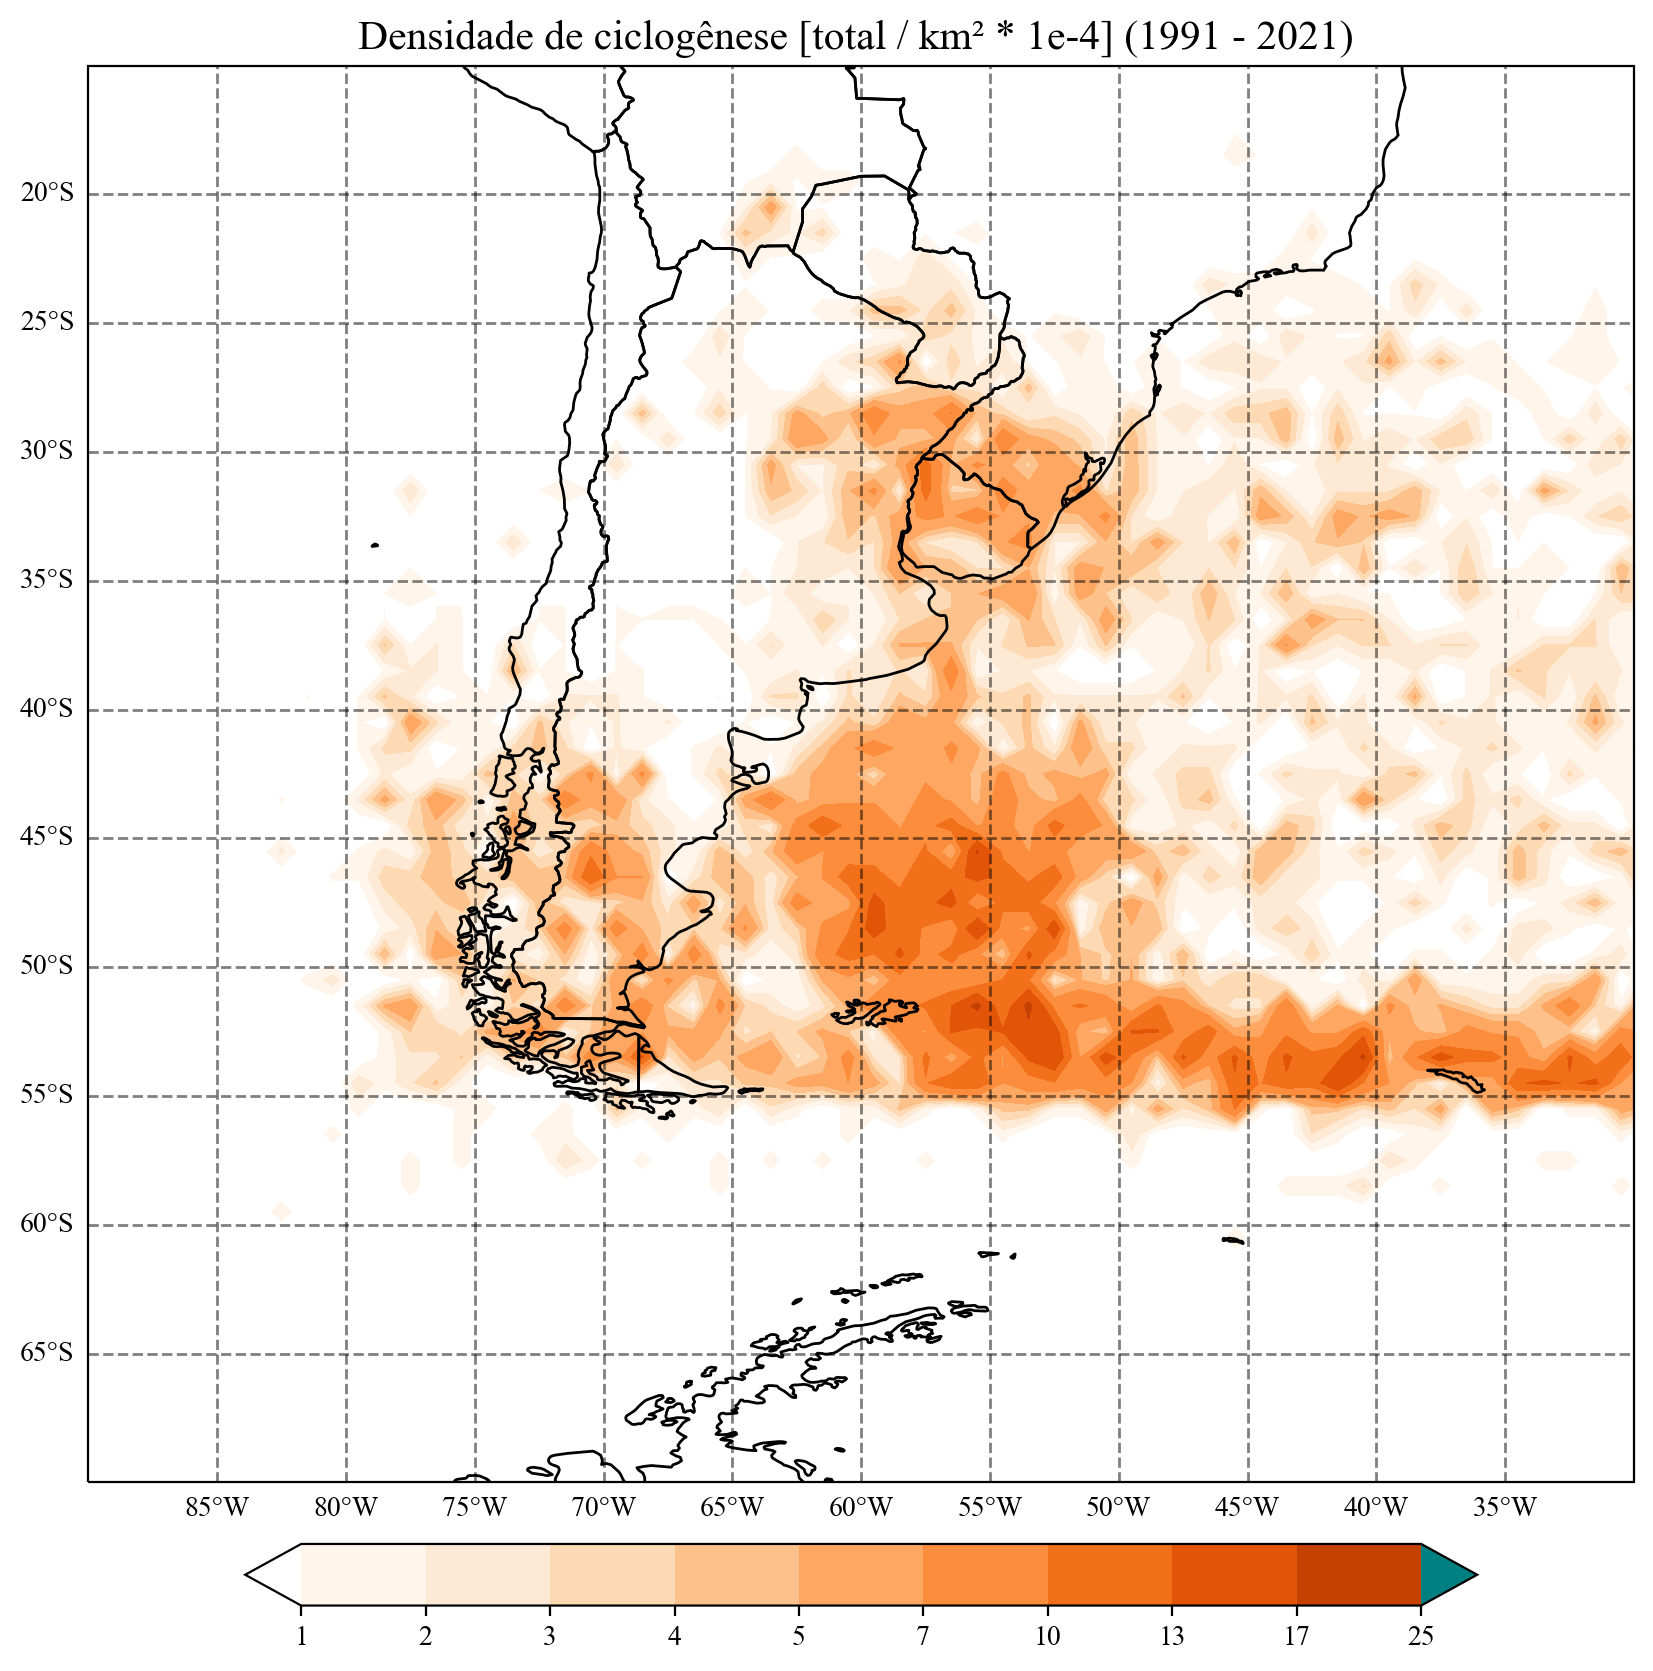
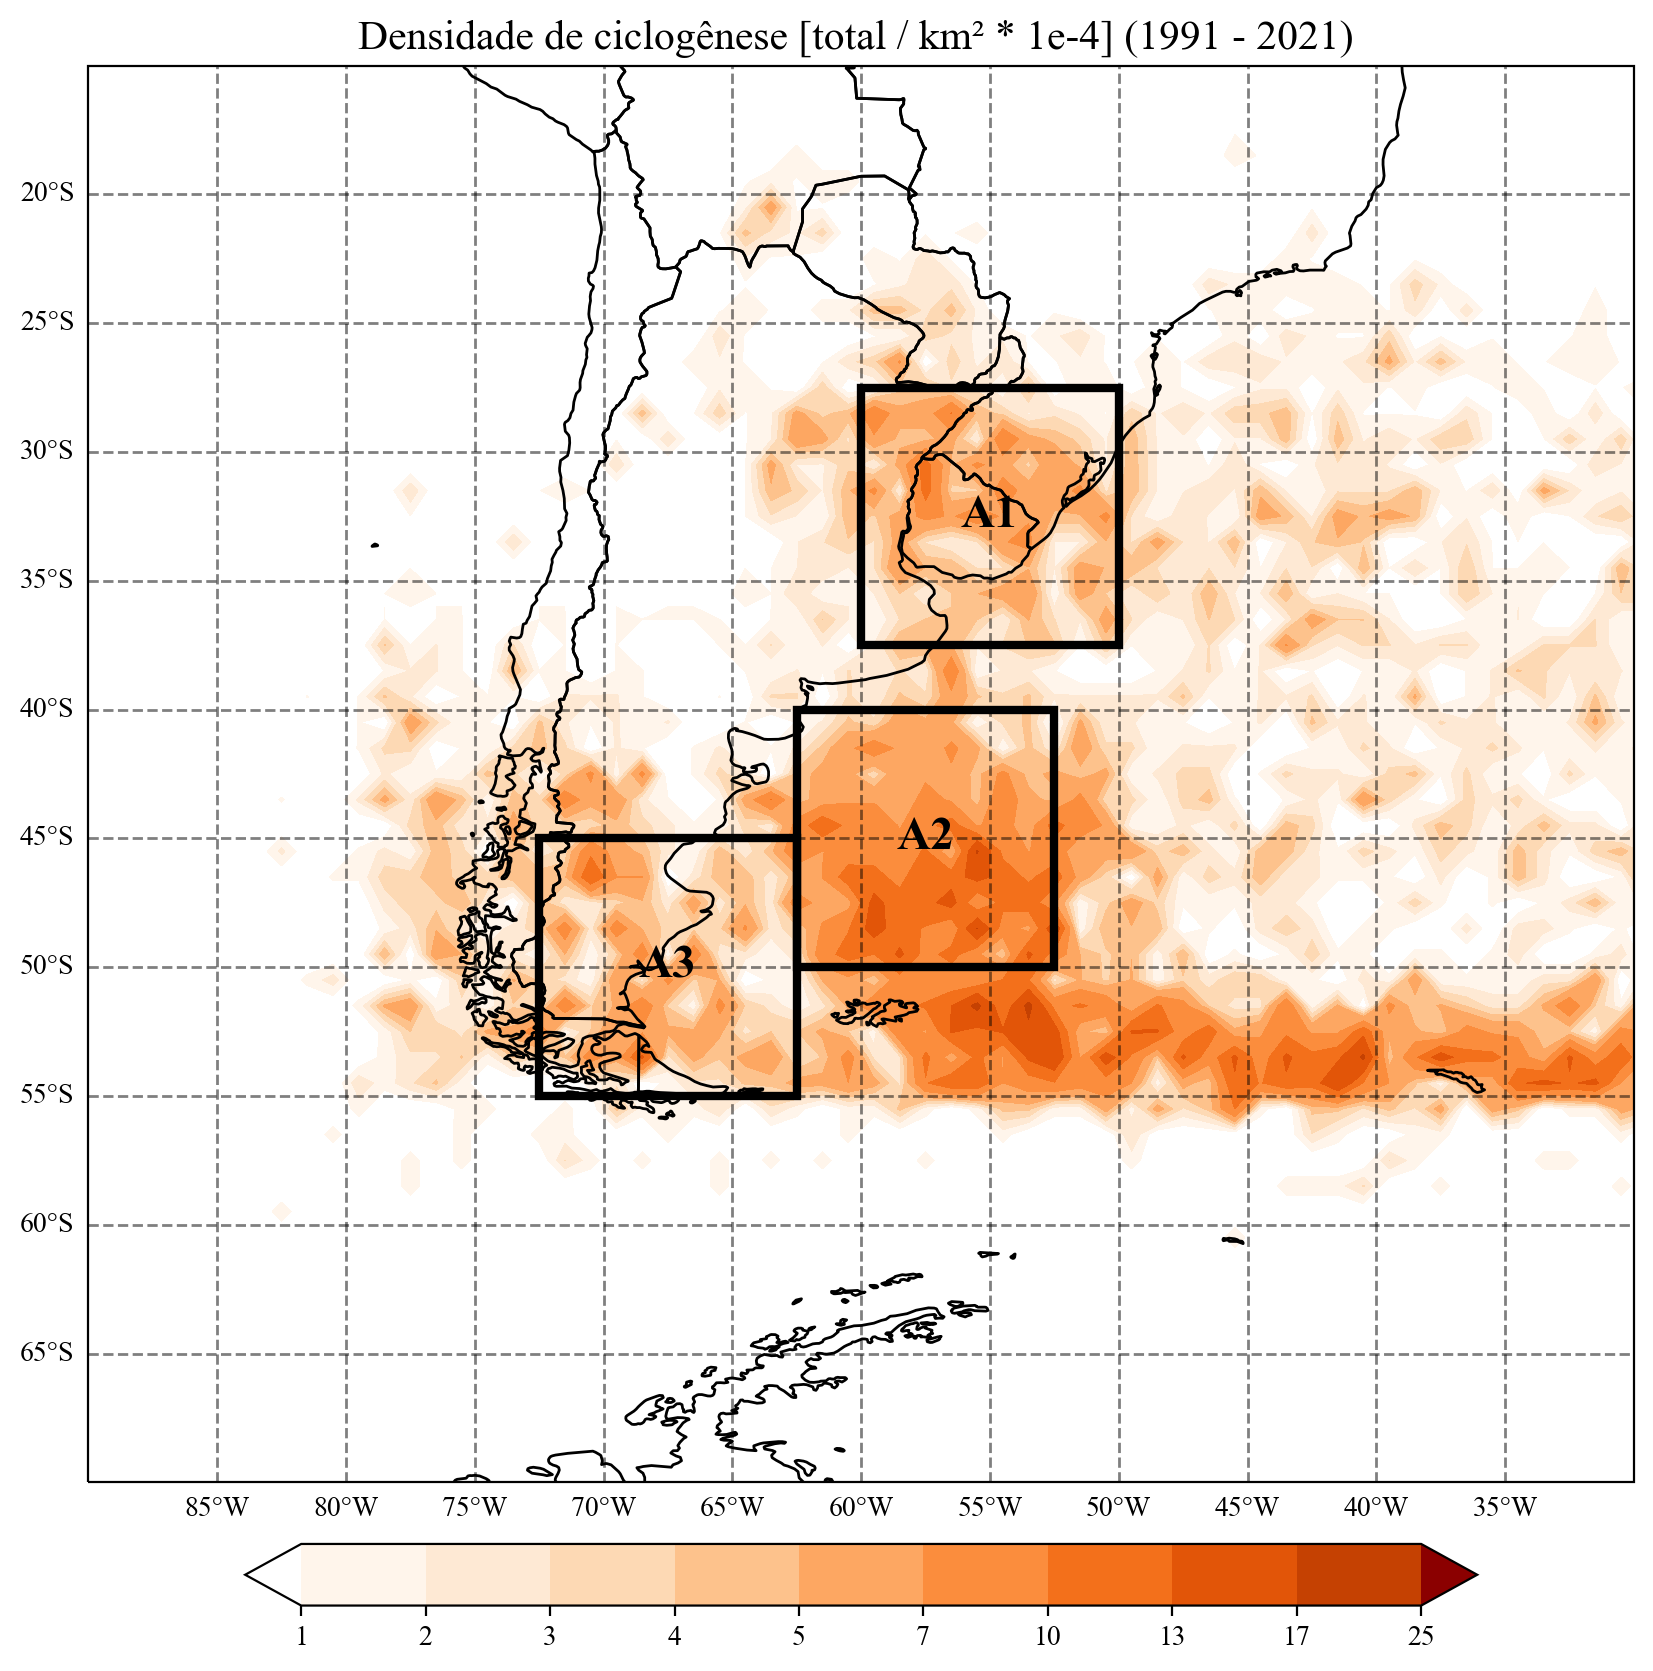
Teste de tendencia fluxos e serie temporal

diff --git a/Scripts/mapas_era5.py b/Scripts/mapas_era5.py
@@ -1,0 +1,82 @@
+"""
+Este arquivo trata-se de um dos scripts criados para a confecção do seminário de Física do Clima.
+
+Gera as figuras utilizadas nos resultados do seminário.
+
+Criado por: Lucas Menezes
+"""
+
+# IMPORT BUILT-IN MODULES
+import os
+
+# IMPORT MODULES
+import pandas as pd
+import numpy as np
+import xarray as xr
+import pymannkendall as mk
+
+# IMPORT PLOT RELATED MODULES
+import matplotlib.pyplot as plt
+import matplotlib.ticker as mticker
+import matplotlib.colors as mcolors
+import matplotlib.cm as mcm
+import matplotlib.patches as patches
+
+# IMPORT MAP RELATED MODULES
+import cartopy.crs as ccrs
+import cartopy.feature as cf
+from cartopy.mpl.gridliner import LONGITUDE_FORMATTER, LATITUDE_FORMATTER
+
+
+def tendencia_fluxos(data_folder):
+	'''
+	CALCULA A TENDENCIA DOS FLUXOS EM CADA PONTO DE GRADE, UTILIZANDO COMO INPUT
+	OS DADOS MENSAIS DE CADA ANO.
+	Cada calculo leva cerca de 10 a 15 minutos, portanto o calculo da tendencia de todas
+	as variaveis deve levar cerca de 1 hora ou mais.
+	'''
+	# arquivo e vriaveis
+	filename = 'SAO-91to21_f-clima.nc'
+	vars_ = ['mslhf', 'msshf']
+
+	# lendo arquivo e filtrando por data
+	ds = xr.open_dataset(os.path.join(data_folder, filename))
+	ds = ds.sel(dict(expver = 1, time = slice('1991-01-01', '2021-12-01')))
+
+	# dicionario com o dataarrays a serem salvos
+	new_ds = {}
+
+	# loop para cada variavel
+	for var in vars_:
+
+		da = ds[var]
+
+		# agrupando e calculando anomalia
+		gp = da.groupby(da.time.dt.month)
+		clim = gp.mean(dim = 'time')
+		anomalia = gp - clim
+
+		# agrupando e calculando anomalia padronizada
+		gp_anom = anomalia.groupby(anomalia.time.dt.month)
+		anom_padronizada = gp_anom / clim
+
+		# tendencias para a anomalia padronizada
+		trend_anom = xr.apply_ufunc(lambda x: mk.yue_wang_modification_test(x).slope, anom_padronizada, input_core_dims = [['time']], vectorize = True)
+		teste_anom = xr.apply_ufunc(lambda x: mk.yue_wang_modification_test(x).h, anom_padronizada, input_core_dims = [['time']], vectorize = True)
+
+		# tendencias para a variavel pura
+		trend = xr.apply_ufunc(lambda x: mk.yue_wang_modification_test(x).slope, da, input_core_dims = [['time']], vectorize = True)
+		teste = xr.apply_ufunc(lambda x: mk.yue_wang_modification_test(x).h, da, input_core_dims = [['time']], vectorize = True)
+
+		# adiciona no dicionario
+		# 'trend' é o próprio valor da tendência
+		# 'teste' é o resultado do teste de significancia a um nivel de alpha = 0.05 (True se tem tendencia, False caso contrario)
+		new_ds[f'trend {var} anom'] = trend_anom
+		new_ds[f'test {var} anom'] = teste_anom
+		new_ds[f'trend {var}'] = trend
+		new_ds[f'test {var}'] = teste
+
+	# Salva em um netcdf
+	filename = 'tendencias_fluxos_1991_2021.nc'
+	new_ds = xr.Dataset(new_ds)
+	new_ds.to_netcdf(os.path.join(data_folder, filename))

diff --git a/Scripts/serie_temporal.py b/Scripts/serie_temporal.py
@@ -1,0 +1,82 @@
+"""
+Este arquivo trata-se de um dos scripts criados para a confecção do seminário de Física do Clima.
+
+Gera figuras para auxiliar na tomada de decioes, baseando-se em estatistica.
+
+Criado por: Lucas Menezes
+"""
+
+# IMPORT BUILT-IN MODULES
+import os
+
+# IMPORT MODULES
+import pandas as pd
+import numpy as np
+import xarray as xr
+
+# MODULES PARA PLOT
+import matplotlib.pyplot as plt
+import matplotlib.colors as mcolors
+import matplotlib.cm as mcm
+
+def ciclogenese_temporal(data_dir, save_folder):
+
+	# lendo o arquivo
+	df = pd.read_csv(os.path.join(data_dir, 'frequencia_ciclogenese_mensal_AREAS.csv'))
+
+	# agrupando e aplicando operacoes
+	media_mensal = df.groupby(['month']).agg(
+		A1 = ('A1', 'mean'),
+		A2 = ('A2', 'mean'),
+		A3 = ('A3', 'mean')
+	)
+
+	total_anual = df.groupby(['ano']).agg(
+		A1 = ('A1', 'sum'),
+		A2 = ('A2', 'sum'),
+		A3 = ('A3', 'sum')
+	)
+
+	# figuras
+	fig, axes = plt.subplots(nrows = 2, figsize = (15, 10)) # 1 plot mensal e outro anual
+
+	# propriedades
+	meses = ['Jan', 'Fev', 'Mar', 'Abr', 'Maio', 'Jun', 'Jul', 'Ago', 'Set', 'Out', 'Nov', 'Dec']
+	cmap = mcm.get_cmap('CMRmap') # pega cores a partir de um colormap
+	areas = ['A1', 'A2', 'A3']
+	cores = cmap(np.linspace(0, 1, len(areas) + 2))
+
+	# Plotando para cada area
+	for i in range(len(areas)):
+		# plot mensal
+		p = axes[0].plot(media_mensal.index, media_mensal[areas[i]], color = cores[i + 1], marker = 'o', markerfacecolor= 'none', label = areas[i], linewidth = 2)
+
+		# plot anual
+		axes[1].plot(total_anual.index, total_anual[areas[i]], color = cores[i + 1], marker = 'o', markerfacecolor= 'none', label = areas[i], linewidth = 2)
+
+	# eixo horizontal
+	axes[0].set_xticks(media_mensal.index)
+	axes[0].set_xticklabels(meses, fontsize = 15)
+	axes[0].grid(True, axis = 'y')
+
+	axes[1].set_xticks(np.arange(1991, 2022, 5).astype(int))
+	axes[1].set_xticklabels(np.arange(1991, 2022, 5).astype(int), fontsize = 15)
+	axes[1].grid(True, axis = 'both')
+
+	# titulos
+	axes[0].set_title('(a) Médias anuais', fontsize = 15, loc = 'left')
+	axes[1].set_title('(b) Totais anuais', fontsize = 15, loc = 'left')
+
+	# ajustando a figura
+	fig.subplots_adjust(0.1, 0.1, 0.9, 0.9, 0.1, 0.2)
+	fig.text(0.05, 0.5, 'Frequência de ciclogênese por ano', fontsize = 20, va = 'center', rotation = 'vertical')
+
+	# Legenda
+	bbox = [0.5, 0.92]
+	handles, labels = axes[0].get_legend_handles_labels()
+	lg = fig.legend(handles, labels, ncols = 3, bbox_to_anchor = bbox, loc = 'center', frameon = False, fontsize = 20)
+
+	# mostra a figura
+	filename ='serie_temporal_ciclogenese.png'
+	fig.savefig(os.path.join(save_folder, filename), bbox_inches = 'tight')
+	plt.close()

diff --git a/Scripts/graficos_espaciais.py b/Scripts/graficos_espaciais.py
@@ -17,6 +17,7 @@ import matplotlib.pyplot as plt
 import matplotlib.ticker as mticker
 import matplotlib.colors as mcolors
 import matplotlib.cm as mcm
+import matplotlib.patches as patches
 
 # IMPORT MAP RELATED MODULES
 import cartopy.crs as ccrs
@@ -54,7 +55,7 @@ def visualizar_mapas(data_folder, save_folder):
 	'Custom cmap', colors, q_levs.shape[0] - 1)
 	#
 	cmap.set_under('white')
-	cmap.set_over('teal')
+	cmap.set_over('darkred')
 	cmap.set_bad('white')
 
 	# nromaliza com base nos intervalos
@@ -121,6 +122,19 @@ def visualizar_mapas(data_folder, save_folder):
 
 	ax.set_title("Densidade de ciclogênese [total / km² * 1e-4] (1991 - 2021) ", ha = 'center', fontsize = 15)
 
+	# adicionar areas ciclogenéticas
+	rects = [
+		patches.Rectangle((-60, -37.5), 10, 10, linewidth=3, edgecolor='k', facecolor='none', transform = proj), # A1
+		patches.Rectangle((-62.5, -50), 10, 10, linewidth=3, edgecolor='k', facecolor='none', transform = proj), # A2
+		patches.Rectangle((-72.5, -55), 10, 10, linewidth=3, edgecolor='k', facecolor='none', transform = proj) # A3
+	]
+	leg_rects = ['A1', 'A2', 'A3']
+	for i in range(len(rects)):
+		x0, y0 = rects[i].get_x(), rects[i].get_y()
+		dx, dy = rects[i].get_width(), rects[i].get_height()
+		ax.text(x0 + dx / 2, y0 + dy / 2, leg_rects[i], ha = 'center', va = 'center', fontsize = 17, fontweight = 'bold')
+		ax.add_patch(rects[i])
+
 	# mostra o plot
 	name = "Total Ciclogeneses por km2.png"
 	fig.savefig(os.path.join(save_folder, name), bbox_inches = 'tight', dpi = 200)
@@ -156,7 +170,7 @@ def sazonalidade_ciclogenese(data_folder, save_folder):
 	'Custom cmap', colors, q_levs.shape[0] - 1)
 	# cmap.set_over(np.array([0, 37, 89, 255])/255)
 	cmap.set_under('white')
-	cmap.set_over(cmap(0.95))
+	cmap.set_over('darkred')
 	cmap.set_bad('white')
 
 	# nromaliza com base nos intervalos
@@ -245,7 +259,7 @@ def sazonalidade_ciclogenese(data_folder, save_folder):
 	# adiciona legenda 
 	cax = fig.add_axes([.92, .1, .06, .8]) # criando eixo pra colorbar
 	cb = fig.colorbar(CS, orientation = 'vertical', pad=0.04, fraction=0.04, cax = cax)
-	font_size = 10 # Adjust as appropriate.
+	font_size = 15 # Adjust as appropriate.
 	cb.ax.tick_params(labelsize=font_size)
 
 	# salva a figura

diff --git a/main.py b/main.py
@@ -15,7 +15,8 @@ from Scripts.grafico_derivada import grafico_interquartil
 from Scripts import figura_tracking
 from Scripts import densidade_ciclogenetica
 from Scripts.graficos_espaciais import sazonalidade_ciclogenese, visualizar_mapas
-from Scripts.estatisticas import histograma_densidade
+from Scripts.serie_temporal import ciclogenese_temporal
+from Scripts.mapas_era5 import tendencia_fluxos
 
 if __name__ == "__main__":
 	# diretorios
@@ -24,6 +25,8 @@ if __name__ == "__main__":
 	figuras_folder = os.path.join(folder, 'Figuras')
 	dados_filtrados_dir = os.path.join(data_folder, 'Tracking', 'Filtrado')
 	processados_dir = os.path.join(data_folder, 'Tracking', 'Processado')
+	#
+	era5_dir = os.path.join(data_folder, 'ERA5')
 	
 	# configuracoes
 	anos = np.linspace(1991, 2021, 31).astype(int)
@@ -63,13 +66,12 @@ if __name__ == "__main__":
 
 	# SERIES TEMPORAIS
 	# ///////////////////////////////////////////////////////////////////////
-	
+	# ciclogenese_temporal(processados_dir, figuras_folder)
 
-	# ESTATISITCAS (APENAS PARA VISUALIZAR)
-	# ////////////////////////////////////////////////////////////////////////
-	# histograma_densidade(processados_dir)
+	# FLUXOS
+	# //////////////////////////////////////////////////////////////////////
+	tendencia_fluxos(era5_dir)
 	
-
 	# Termina o timer
 	end = time.time()
 
